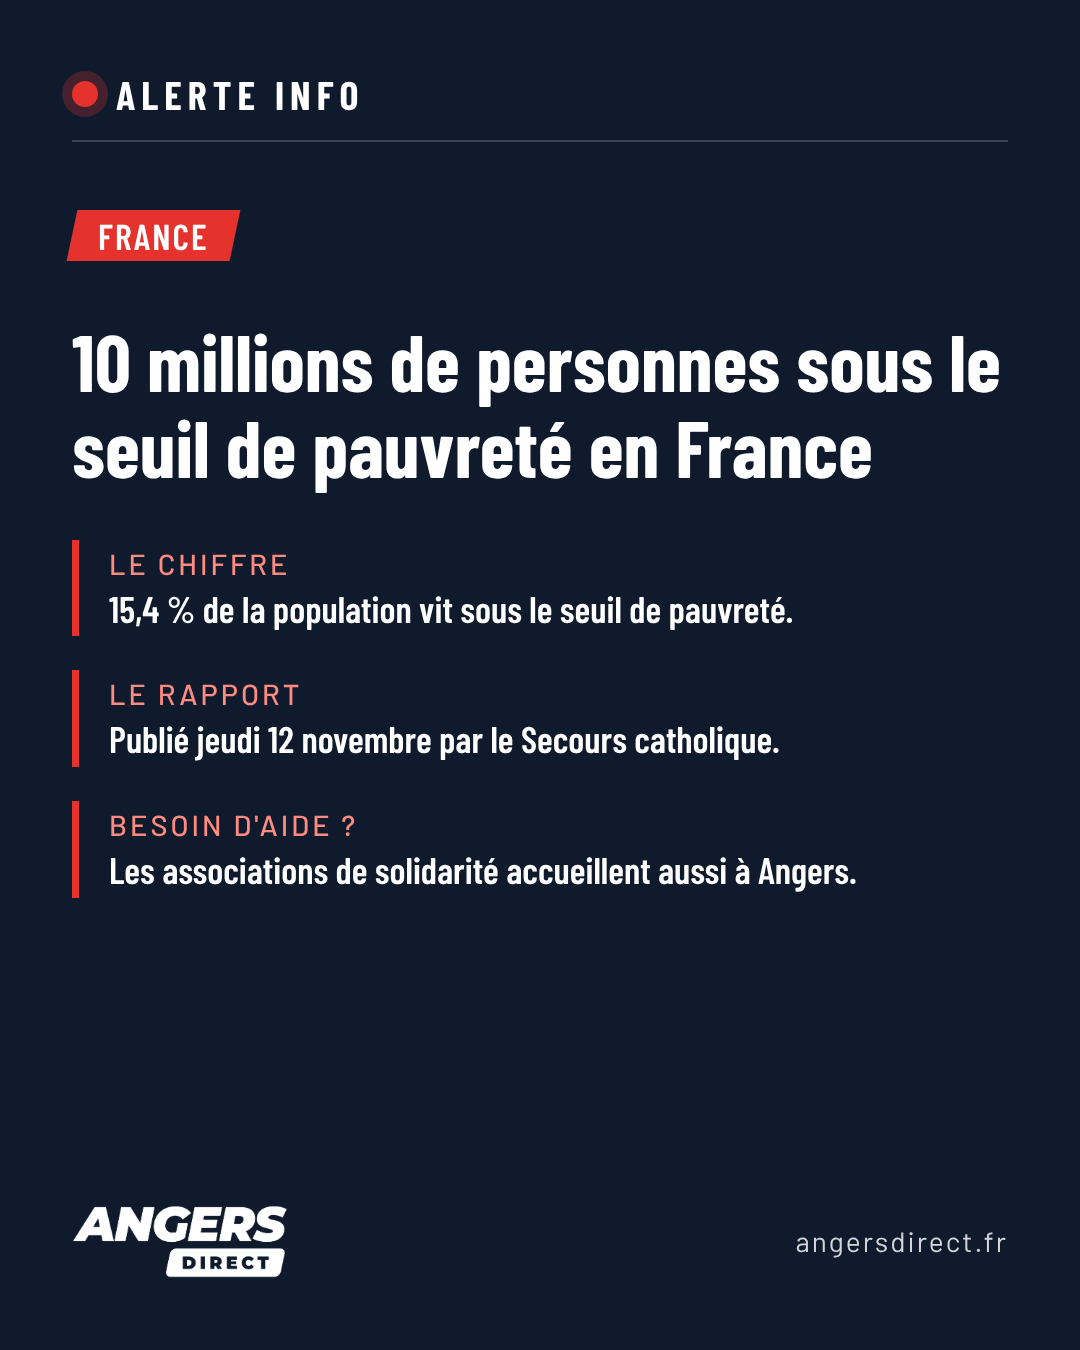
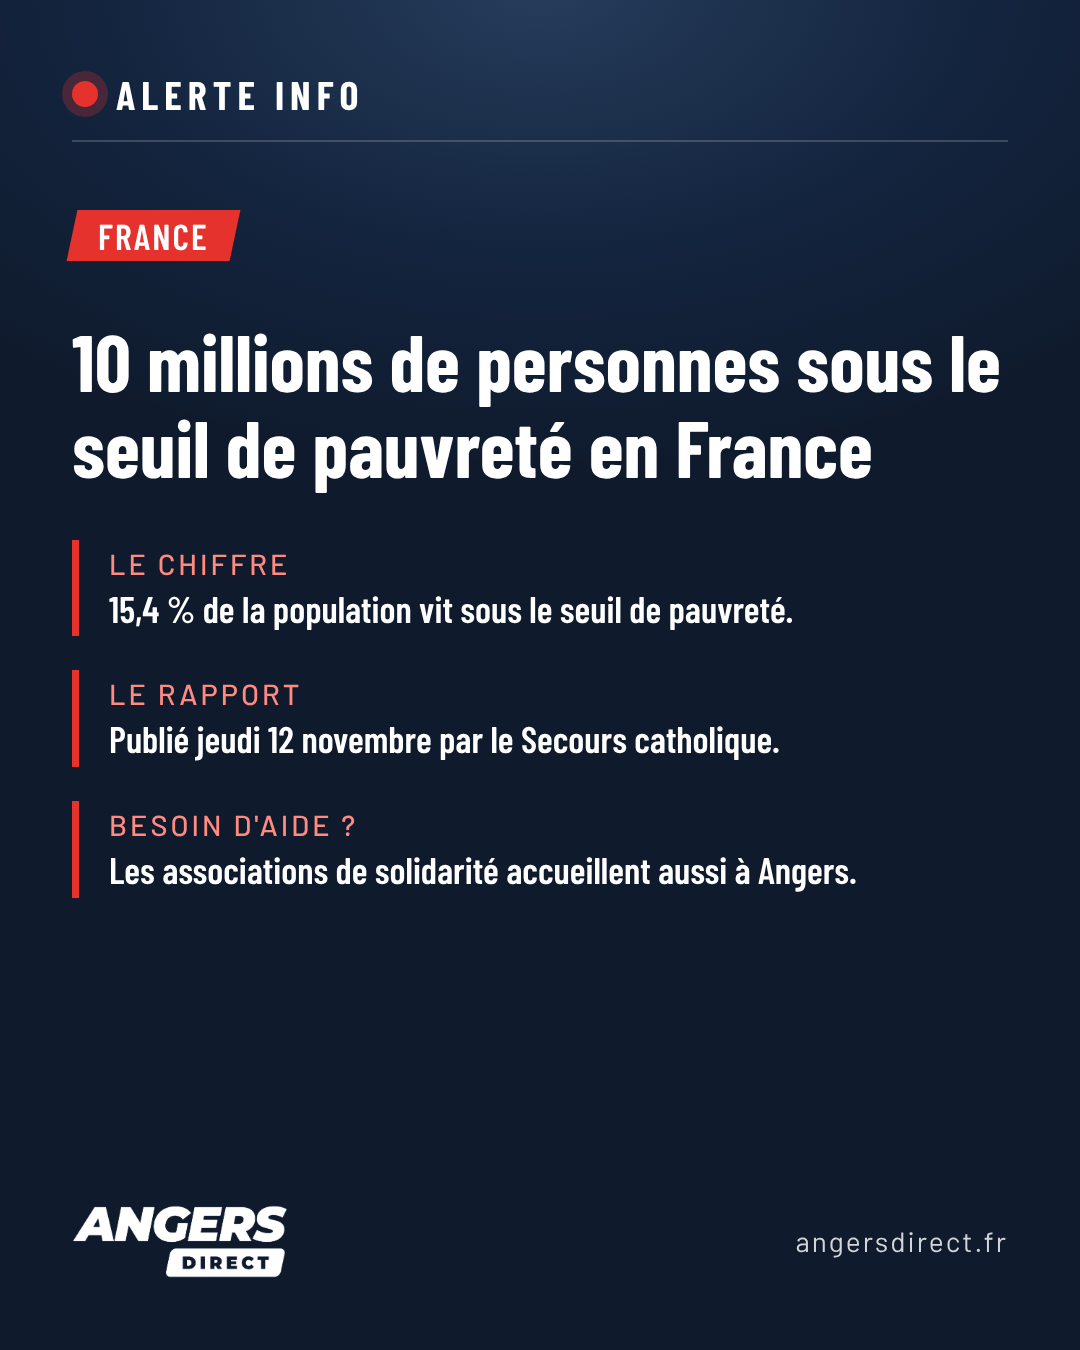
Alerte info : léger halo de lumière en haut
Claude-Session: https://claude.ai/code/session_01ShcrTsm3cJDHxKdMorLYTA

Changed region(s): [[0.1833, 0.0, 0.825, 0.1556]]

diff --git a/outils/alerte.py b/outils/alerte.py
@@ -2,7 +2,7 @@
 - « trafic » (par défaut) : modèle angers-direct-modele-travaux-circulation, bandes jaunes et noires en haut.
   RÉSERVÉ aux problèmes de circulation, accidents de la route, travaux (règle de la rédaction, 13 novembre 2026).
 - « info » : alerte info nationale ou internationale (catastrophe, attentat, décès, décision majeure...),
-  sans bandes de chantier : en-tête « ALERTE INFO » avec point rouge, étiquette et filets rouges.
+  sans bandes de chantier : léger halo de lumière en haut, en-tête « ALERTE INFO » avec point rouge, étiquette et filets rouges.
 
 Usage : python3 outils/alerte.py fiche.json sortie.png
 Fiche : {"modele": "trafic" | "info", "format": "post" (1080x1350) ou "story" (1080x1920), "tag": "TRAVAUX · CIRCULATION",
@@ -37,7 +37,8 @@ def page(f, W, H):
     accent = ROUGE if info else JAUNE
     label_c = ROUGE_CLAIR if info else JAUNE
     if info:
-        haut = f'''<div style="position:absolute;left:72px;top:{190 if story else 70}px;display:flex;align-items:center;gap:18px">
+        haut = f'''<div style="position:absolute;left:-{W//4}px;top:-{H//4}px;width:{W*3//2}px;height:{H*3//5}px;background:radial-gradient(ellipse at 50% 40%,rgba(120,180,255,.22) 0%,rgba(60,120,220,.10) 38%,rgba(15,27,45,0) 70%)"></div>
+<div style="position:absolute;left:72px;top:{190 if story else 70}px;display:flex;align-items:center;gap:18px">
 <div style="width:26px;height:26px;border-radius:50%;background:{ROUGE};box-shadow:0 0 0 10px rgba(229,50,45,.25)"></div>
 <div style="{BC};font-weight:700;font-size:40px;letter-spacing:6px">ALERTE INFO</div></div>
 <div style="position:absolute;left:72px;right:72px;top:{262 if story else 140}px;height:2px;background:rgba(255,255,255,.18)"></div>'''

diff --git a/outils/LISEZMOI.md b/outils/LISEZMOI.md
@@ -27,7 +27,7 @@ Le haut de chaque visuel (post et story) porte une **photo**, sauf quand le suje
 
 `outils/alerte.py` a deux modèles, choisis avec le champ `modele` de la fiche :
 - `"modele": "trafic"` (par défaut, bandes jaunes et noires « chantier ») : **uniquement** pour les problèmes de circulation, accidents de la route, travaux.
-- `"modele": "info"` (en-tête « ALERTE INFO » avec point rouge, étiquette et filets rouges, sans bandes) : toutes les autres alertes, notamment les alertes nationales et internationales (catastrophe, attentat, décès, décision majeure, rapport, chiffre national...).
+- `"modele": "info"` (léger halo de lumière en haut, en-tête « ALERTE INFO » avec point rouge, étiquette et filets rouges, sans bandes) : toutes les autres alertes, notamment les alertes nationales et internationales (catastrophe, attentat, décès, décision majeure, rapport, chiffre national...).
 Jamais les bandes de chantier sur un sujet qui n'est pas trafic, accident ou travaux. Un sujet qui repose sur un chiffre (rapport, statistique) peut aussi prendre la carte `fiche` / `story_fiche.py`.
 Exemple : `2026-11-13/exemple-alerte-info-post.json`.
 
